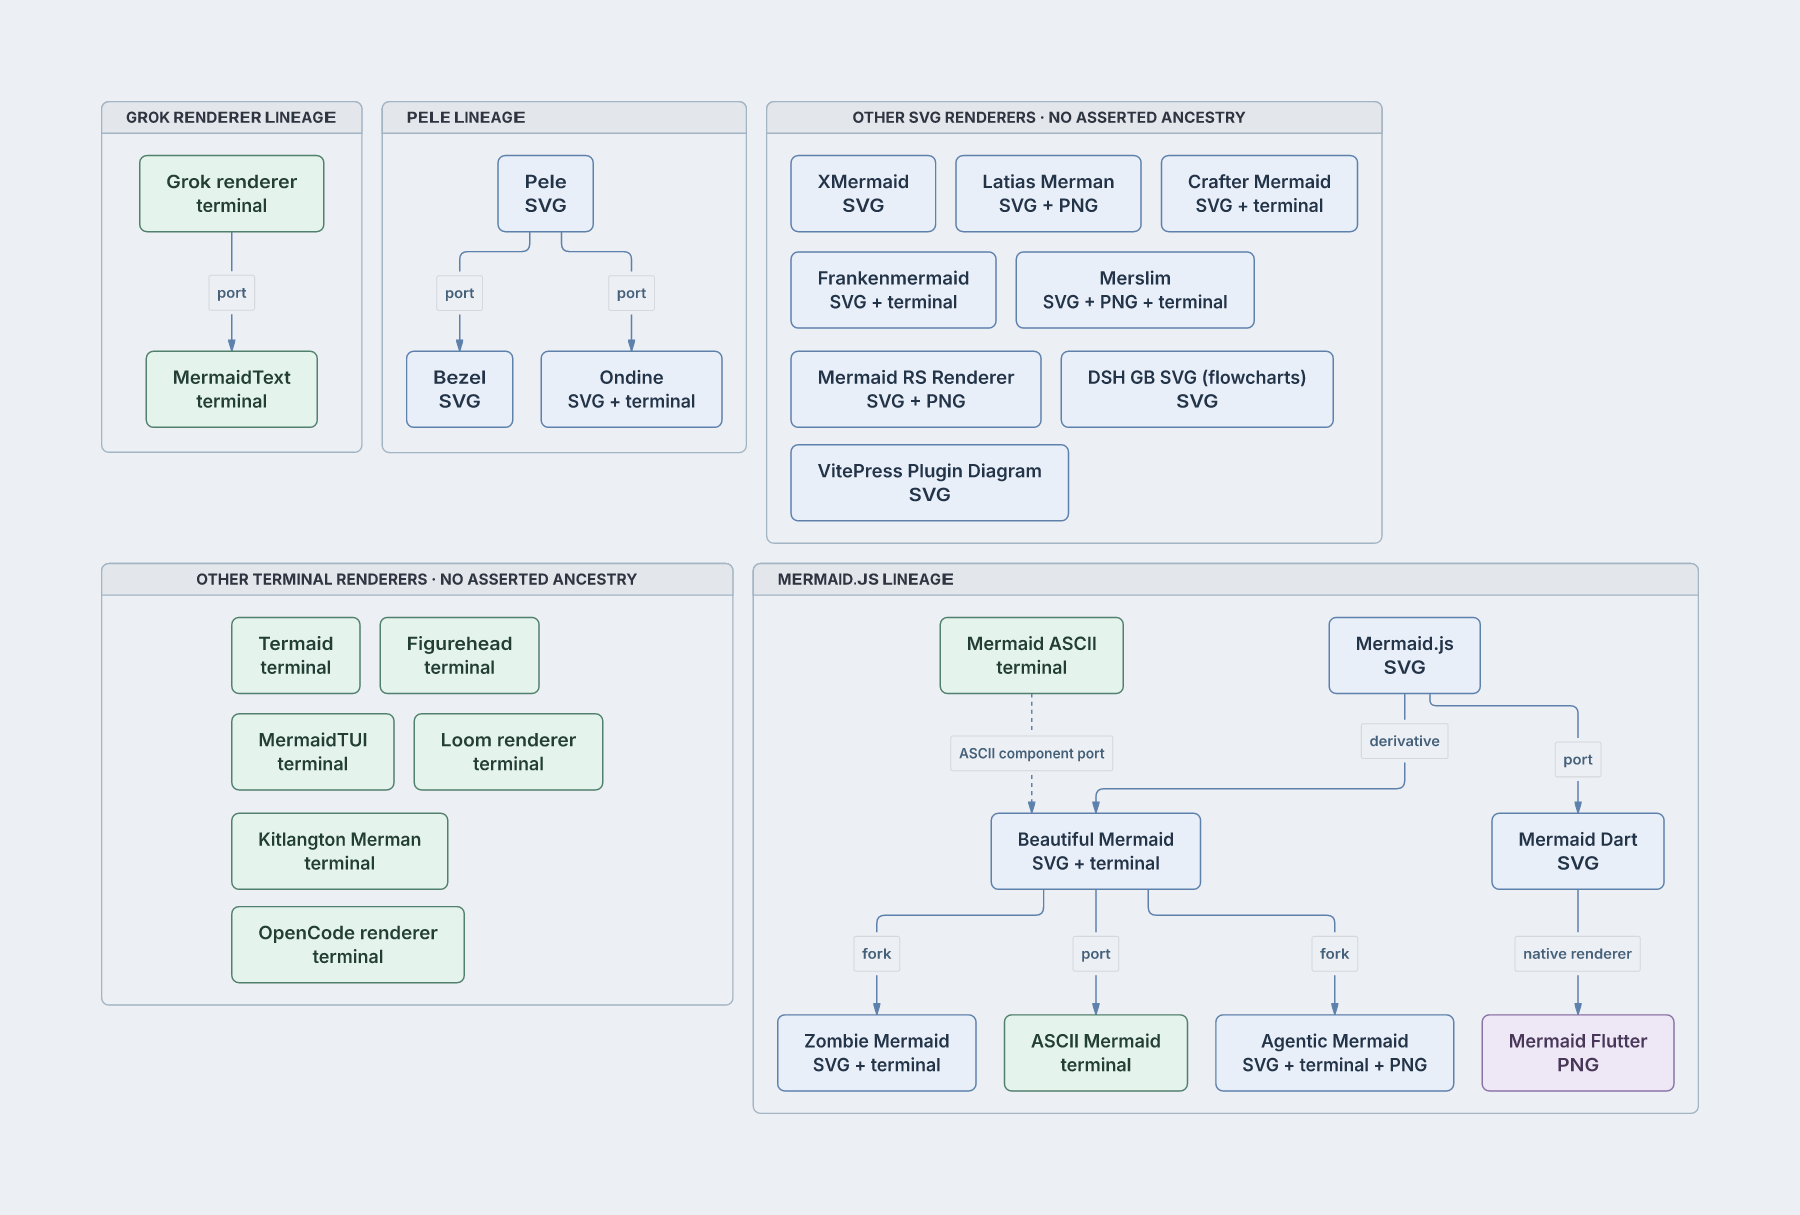
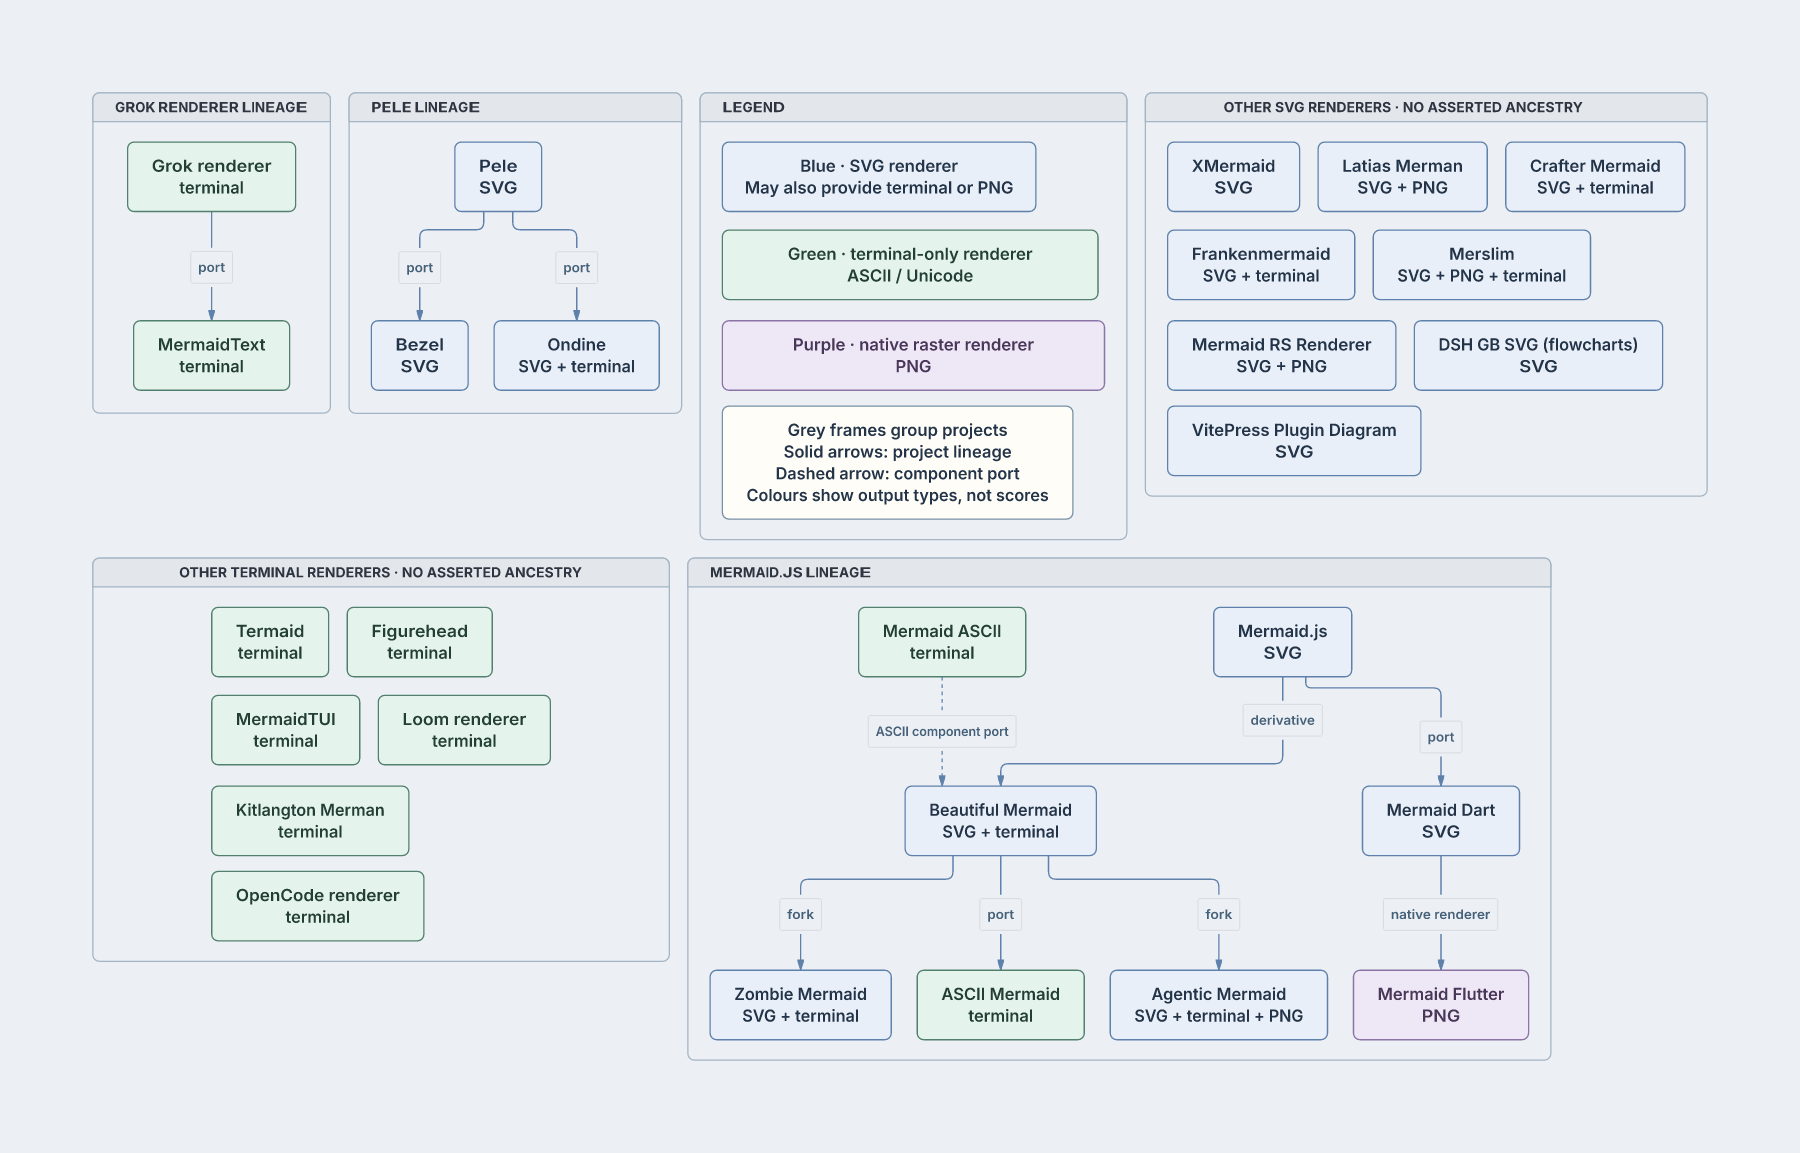
Add an output and relationship legend to the lineage image

diff --git a/unified/lineage-diagram.ts b/unified/lineage-diagram.ts
@@ -43,6 +43,16 @@ export function lineageDiagram(catalog: LineageCatalog): string {
     for (const edge of edges.filter(edge => group.members.some(node => node.id === edge.from) && group.members.some(node => node.id === edge.to))) lines.push(`    ${ids.get(edge.from)} ${edge.component ? '-.->' : '-->'}|${edge.label}| ${ids.get(edge.to)}`)
     lines.push('  end')
   }
-  lines.push('  classDef svg fill:#e8eff8,stroke:#5e81ac,color:#233448', '  classDef terminal fill:#e5f3ed,stroke:#51816c,color:#233f35', '  classDef raster fill:#eee8f6,stroke:#8b73a6,color:#493759')
+  lines.push(
+    '  subgraph legend["Legend"]',
+    '    legendSvg["Blue · SVG renderer<br/>May also provide terminal or PNG"]:::svg',
+    '    legendTerminal["Green · terminal-only renderer<br/>ASCII / Unicode"]:::terminal',
+    '    legendRaster["Purple · native raster renderer<br/>PNG"]:::raster',
+    '    legendNote["Grey frames group projects<br/>Solid arrows: project lineage<br/>Dashed arrow: component port<br/>Colours show output types, not scores"]',
+    '  end',
+    '  classDef svg fill:#e8eff8,stroke:#5e81ac,color:#233448',
+    '  classDef terminal fill:#e5f3ed,stroke:#51816c,color:#233f35',
+    '  classDef raster fill:#eee8f6,stroke:#8b73a6,color:#493759',
+  )
   return lines.join('\n') + '\n'
 }

diff --git a/README.md b/README.md
@@ -118,8 +118,8 @@ original project selections and dates.
 
 Every scheduled renderer appears once. Node labels show configured rendering
 output checks, including interfaces that may fail or remain blocked. They do not
-assert successful output or qualified performance. Blue nodes include SVG, green
-nodes are terminal-only, and purple marks native PNG. Solid arrows label recorded
+assert successful output or qualified performance. The image's legend explains
+the output colours, grey groups and arrow styles. Solid arrows label recorded
 forks, derivatives, ports or native-renderer relationships; the dashed arrow marks
 only Beautiful Mermaid's ASCII component port. Unconnected renderers are grouped
 without inventing ancestry. Mermaid Dart and Mermaid Flutter remain distinct brands.
